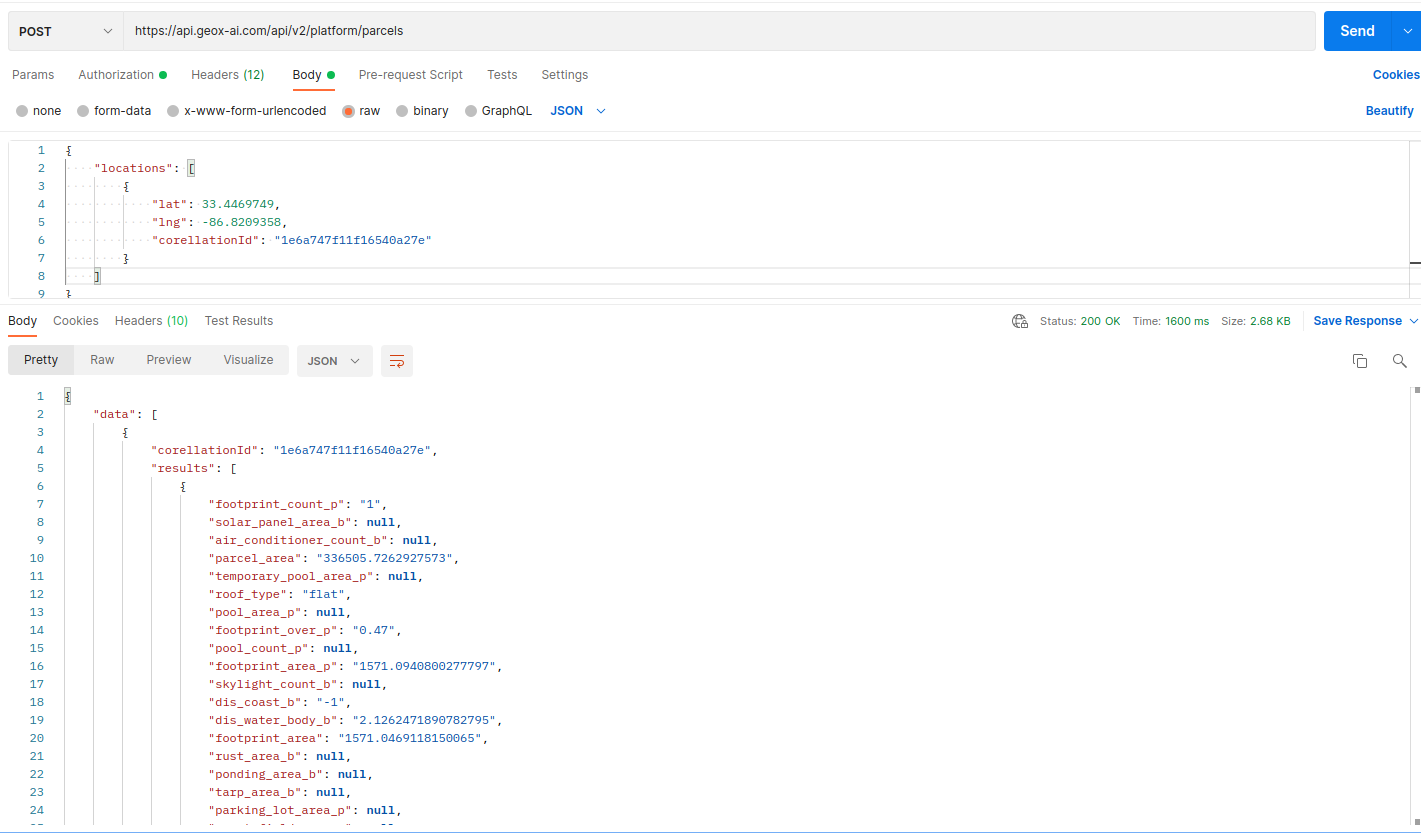
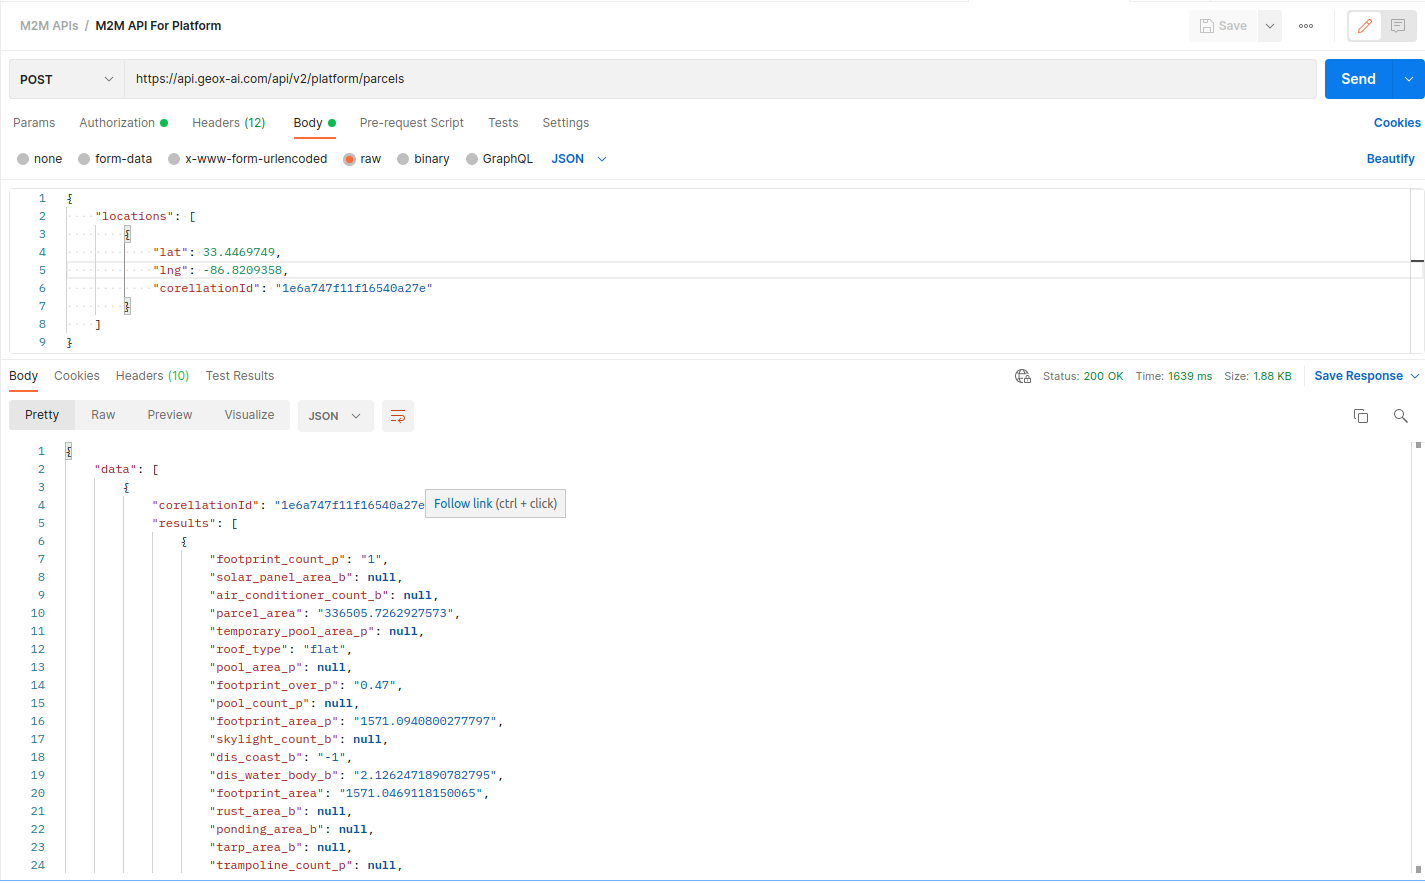
Updated postman image and docs with latest example

diff --git a/README.md b/README.md
@@ -170,16 +170,10 @@ https://api.geox-ai.com/api/v2/parcels
                     "rust_area_b": null,
                     "ponding_area_b": null,
                     "tarp_area_b": null,
-                    "parking_lot_area_p": null,
-                    "sport_field_area_p": null,
-                    "chimney_count_b": null,
                     "trampoline_count_p": null,
                     "air_conditioner_area_b": null,
                     "roof_condition": "good",
-                    "parking_lot_over_p": null,
-                    "tank_area_p": null,
                     "slope_area_b": "719.8874491111119",
-                    "n_floors": null,
                     "building_height": null,
                     "roof_material": "concrete",
                     "number_of_floors": null
@@ -202,16 +196,10 @@ https://api.geox-ai.com/api/v2/parcels
                     "rust_area_b": null,
                     "ponding_area_b": null,
                     "tarp_area_b": "123.89211332638904",
-                    "parking_lot_area_p": null,
-                    "sport_field_area_p": null,
-                    "chimney_count_b": null,
                     "trampoline_count_p": null,
                     "air_conditioner_area_b": "4441.817505236117",
                     "roof_condition": "damaged",
-                    "parking_lot_over_p": null,
-                    "tank_area_p": null,
                     "slope_area_b": "1836.3157718055577",
-                    "n_floors": null,
                     "building_height": 28.25,
                     "roof_material": "concrete",
                     "number_of_floors": "3"
